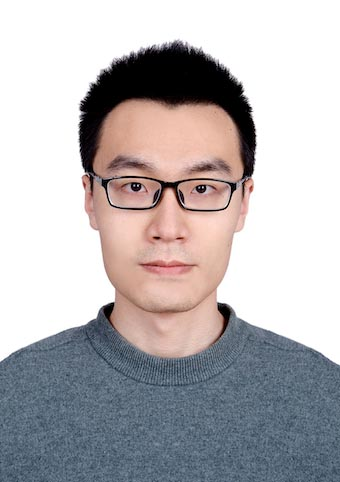
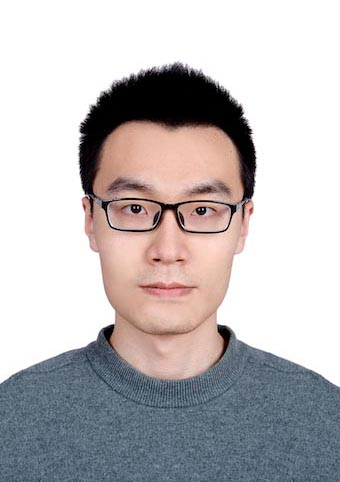
update photos in people.html

diff --git a/people.html b/people.html
@@ -94,7 +94,7 @@
 							
 						</section>
 						<section class="feature 2u">
-							<img class="image fit" src="/images/pic01.jpg" alt="">
+							<img class="image fit" src="/profile/image/xl_chen.jpg" alt="">
 							<h4 class="title">Xiaolong Chen</h4>
 							
 						</section>
